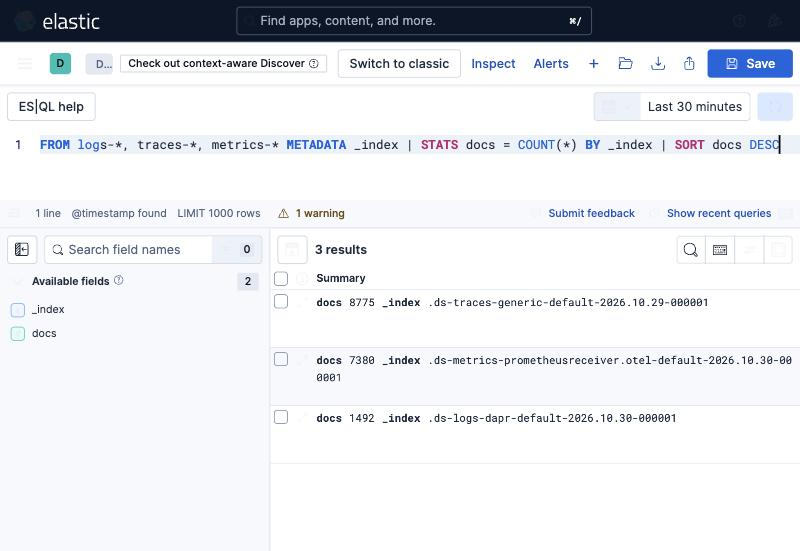
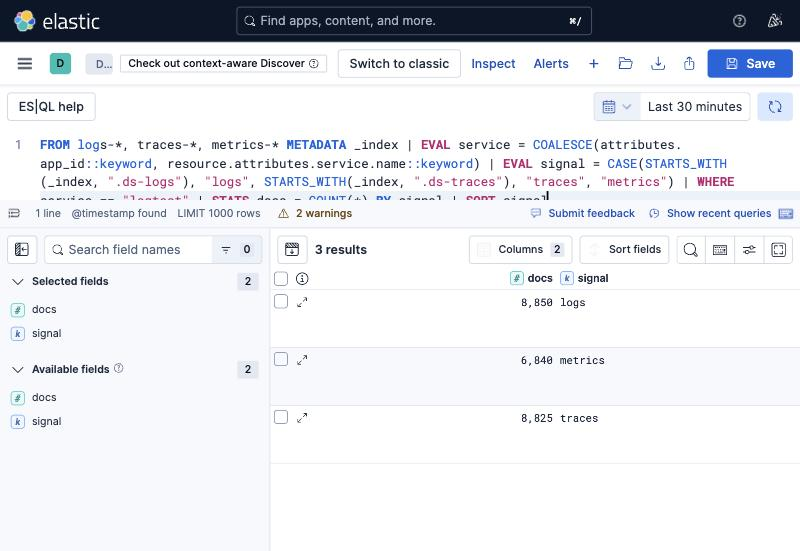
Show one service across three signals instead of counting indices

diff --git a/README.md b/README.md
@@ -17,7 +17,7 @@ Use your real stream names. With the APM integration the traces one is
 
 ![one data view](images/one-data-view.svg)
 
-Queries work across all three as well:
+One service across all three signals in a single query:
 
 ![ES|QL across three streams](images/esql-three-streams.jpg)
 
